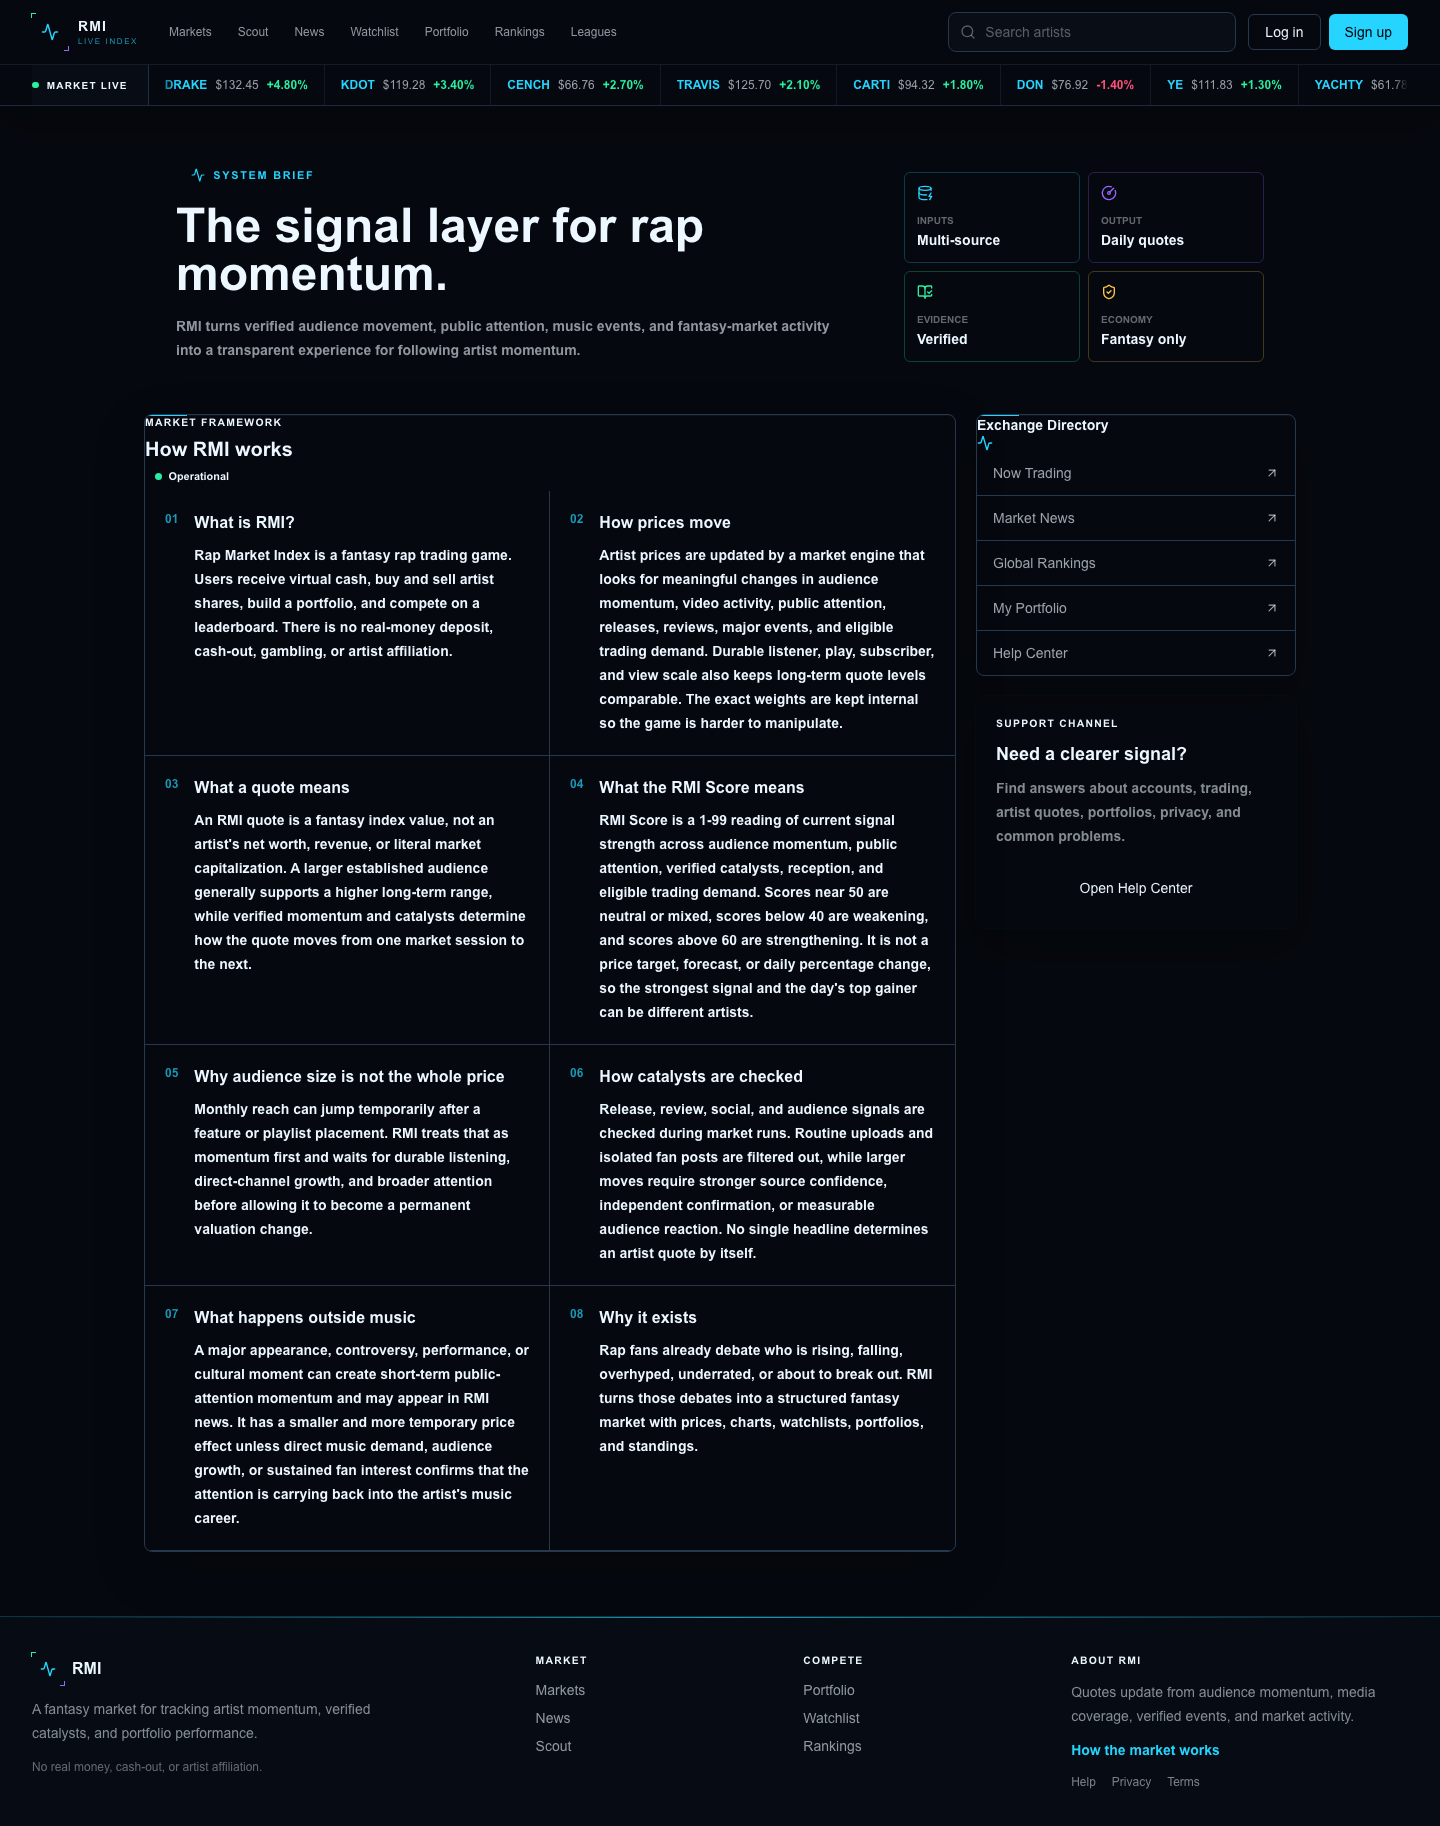
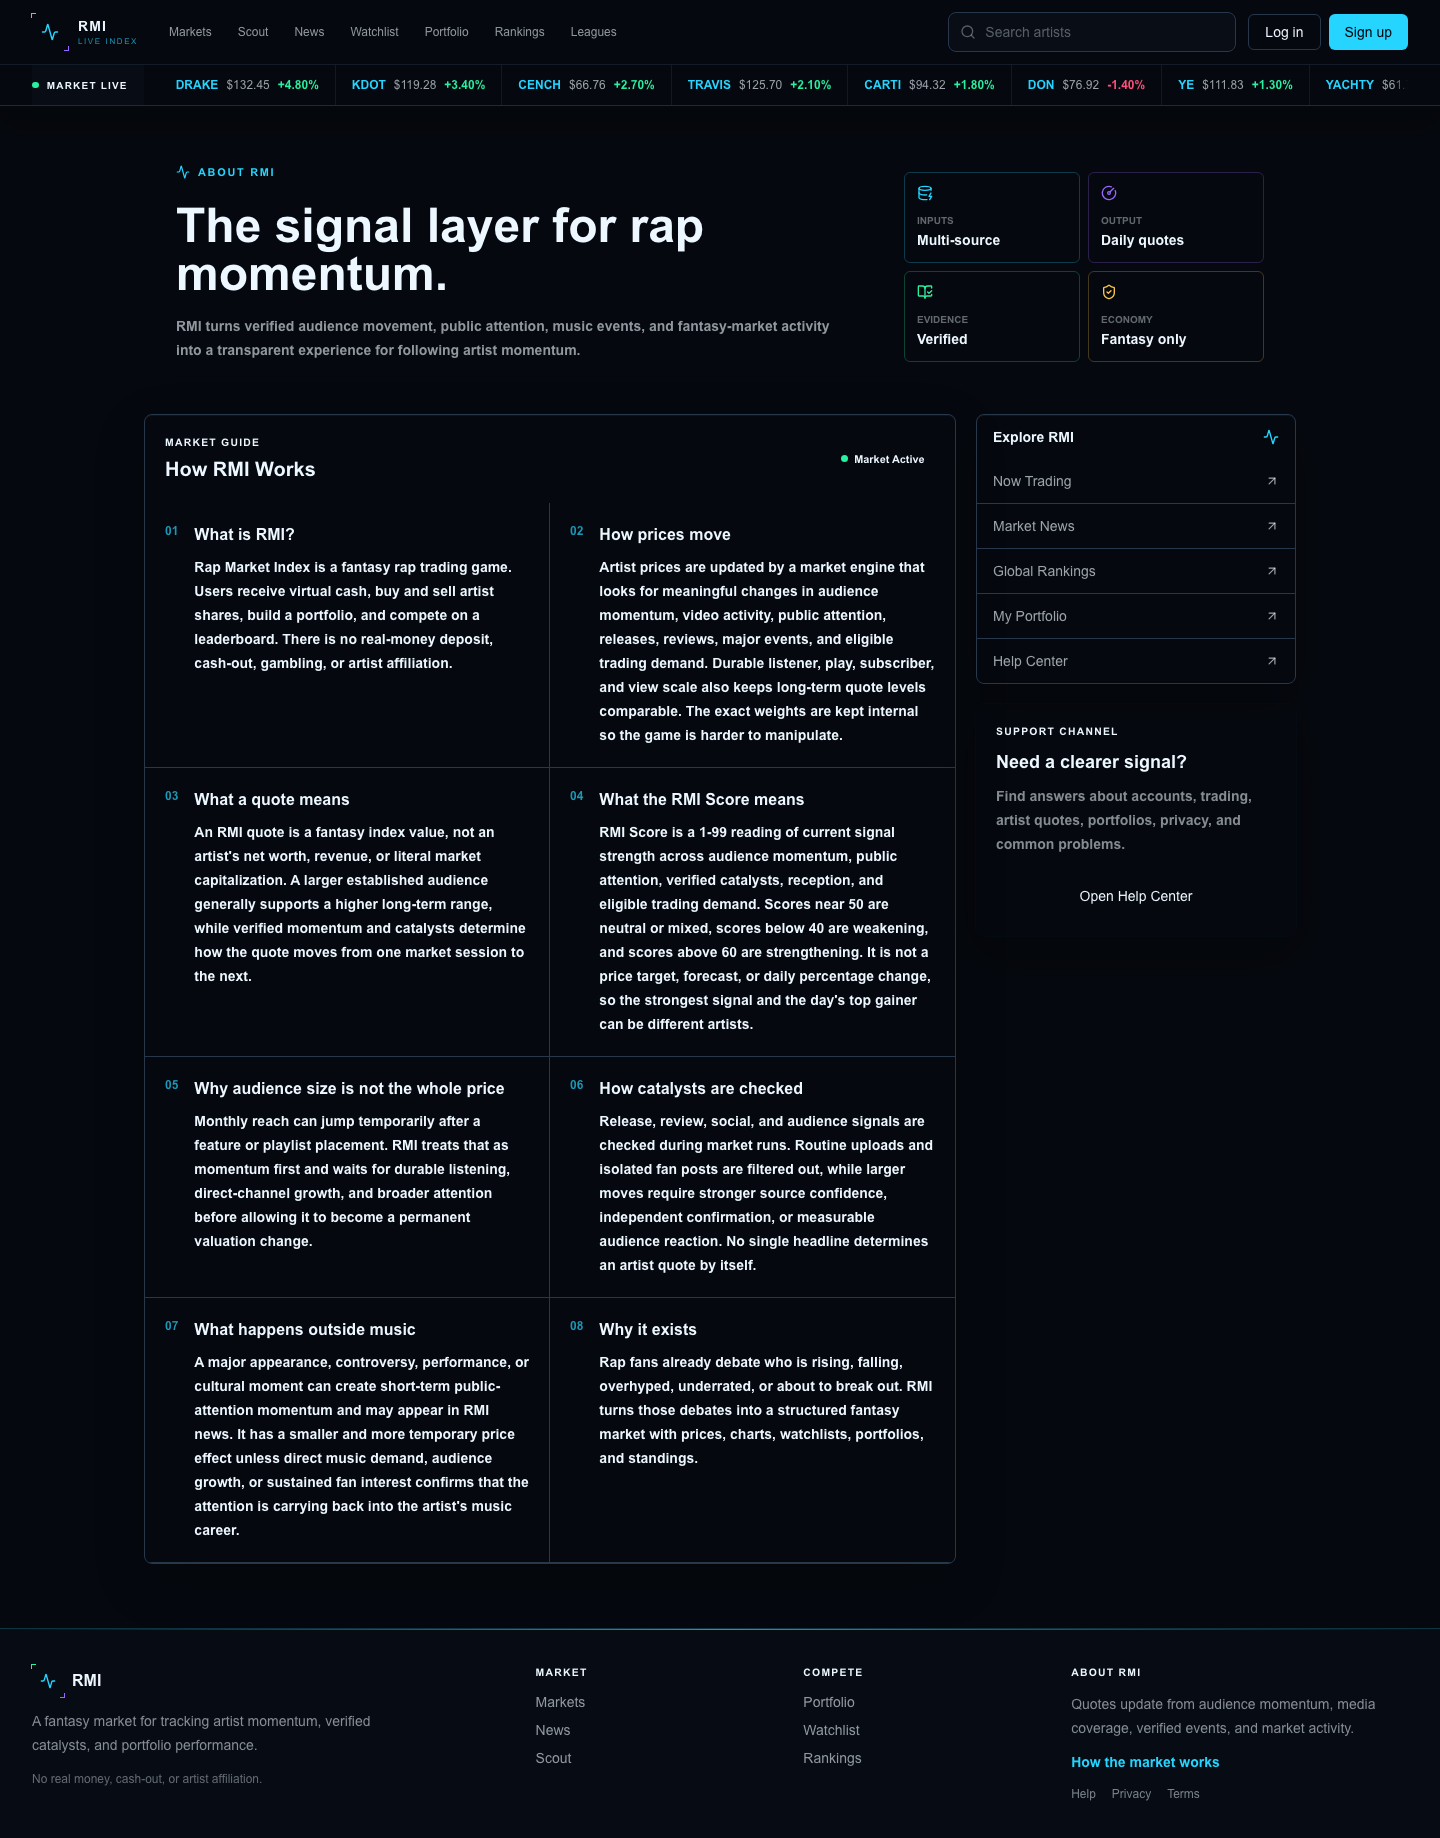
Fix overlay layout and page spacing

diff --git a/app/leagues/page.tsx b/app/leagues/page.tsx
@@ -1,11 +1,11 @@
 "use client";
 
 import { RmiButton } from "@/components/RmiPrimitives";
-import { Activity, ArrowUpRight, MessageCircle, ShieldCheck, Trophy, UsersRound } from "lucide-react";
+import { ArrowUpRight, MessageCircle, ShieldCheck, Trophy, UsersRound } from "lucide-react";
 
 const plannedFeatures = [
   { icon: UsersRound, title: "Private Leagues", detail: "Invite friends and compare portfolios in a private table." },
-  { icon: Trophy, title: "League Rankings", detail: "Compete on return without changing the public artist market." },
+  { icon: Trophy, title: "League Rankings", detail: "See who builds the strongest portfolio over time." },
   { icon: MessageCircle, title: "League Activity", detail: "Follow trades and league updates in one private feed." }
 ];
 
@@ -15,10 +15,10 @@ export default function LeaguesPage() {
       <section className="rmi-hero market-grid rmi-noise overflow-hidden">
         <div className="grid gap-6 p-6 sm:p-9 lg:grid-cols-[minmax(0,1fr)_340px] lg:items-center">
           <div>
-            <span className="rmi-status-chip border-violet/30 bg-violet/10 text-violet"><span className="h-1.5 w-1.5 rounded-full bg-violet" /> Network Preview</span>
-            <h1 className="mt-5 text-3xl font-black sm:text-5xl">Private markets. Shared competition.</h1>
+            <span className="inline-flex items-center gap-2 rounded-md border border-violet/45 bg-violet/15 px-4 py-2 text-xs font-black uppercase tracking-[0.16em] text-violet shadow-[0_0_24px_rgba(var(--color-violet),0.16)]"><span className="h-2 w-2 rounded-full bg-violet" /> Coming Soon</span>
+            <h1 className="mt-5 text-3xl font-black sm:text-5xl">Build a league. Trade against your friends.</h1>
             <p className="mt-4 max-w-xl text-sm font-semibold leading-6 text-paper/60">
-              Create private groups, compare returns, and compete with friends. Leagues are coming after the core market launch.
+              Create private groups, invite friends, and compete on portfolio returns.
             </p>
             <div className="mt-6 flex flex-wrap gap-3">
               <RmiButton href="/leaderboard">View Global Rankings <ArrowUpRight className="ml-2 h-4 w-4" /></RmiButton>
@@ -28,16 +28,16 @@ export default function LeaguesPage() {
           <div className="rmi-signal-card relative overflow-hidden p-5">
             <div className="absolute inset-x-0 top-0 h-px bg-gradient-to-r from-cyan via-violet to-mint" />
             <div className="flex items-center justify-between">
-              <span className="rmi-data-label">League Uplink</span>
-              <span className="rmi-live-dot" />
+              <span className="rmi-data-label">League Preview</span>
+              <span className="rmi-status-chip border-violet/30 bg-violet/10 text-violet">Coming Soon</span>
             </div>
             <div className="mt-8 grid place-items-center py-6">
               <ShieldCheck className="h-16 w-16 text-violet" strokeWidth={1.25} aria-hidden="true" />
             </div>
             <div className="grid grid-cols-3 gap-2 border-t border-line pt-4 text-center">
               <LeagueSignal value="Private" label="Access" />
-              <LeagueSignal value="Live" label="Standings" />
-              <LeagueSignal value="Fair" label="Market" />
+              <LeagueSignal value="Ranked" label="Standings" />
+              <LeagueSignal value="Social" label="Competition" />
             </div>
           </div>
         </div>
@@ -57,11 +57,12 @@ export default function LeaguesPage() {
       </section>
 
       <section className="rmi-card flex flex-wrap items-center justify-between gap-4 p-5">
-        <div className="flex items-center gap-3">
-          <span className="grid h-10 w-10 place-items-center rounded-md bg-mint/10 text-mint"><Activity className="h-5 w-5" aria-hidden="true" /></span>
-          <div><p className="text-sm font-black">The global market stays shared.</p><p className="mt-1 text-xs font-semibold text-paper/45">League competition will compare portfolios without creating separate artist prices.</p></div>
+        <div>
+          <p className="rmi-kicker text-violet">Coming Soon</p>
+          <p className="mt-2 text-sm font-black">Build your portfolio now.</p>
+          <p className="mt-1 text-xs font-semibold text-paper/45">Bring it into private competition with friends when leagues open.</p>
         </div>
-        <span className="rmi-status-chip border-mint/25 bg-mint/8 text-mint">Architecture Ready</span>
+        <RmiButton href="/portfolio" variant="secondary">Open Portfolio</RmiButton>
       </section>
     </div>
   );

diff --git a/src/components/Shell.tsx b/src/components/Shell.tsx
@@ -155,7 +155,7 @@ export function Shell({ children }: { children: React.ReactNode }) {
             </Link>
           ) : null}
 
-          <div ref={accountMenuRef} className="relative ml-auto lg:ml-0">
+          <div ref={accountMenuRef} className="relative ml-auto shrink-0 lg:ml-0">
             {authLoading ? (
               <div
                 className="h-10 w-24 rounded-lg bg-panelSoft motion-safe:animate-pulse"
@@ -191,7 +191,7 @@ export function Shell({ children }: { children: React.ReactNode }) {
 
             {accountOpen ? (
               <div
-                className="rmi-card absolute right-0 top-12 z-[120] max-h-[calc(100dvh-5.5rem)] w-[min(20rem,calc(100vw-2rem))] overflow-y-auto p-3 shadow-2xl scrollbar-thin"
+                className="rmi-card absolute right-0 top-[calc(100%+0.75rem)] z-[120] max-h-[calc(100dvh-5.5rem)] w-[min(20rem,calc(100vw-2rem))] overscroll-contain overflow-y-auto p-3 shadow-2xl scrollbar-thin"
                 role="menu"
               >
                 <div className="flex items-center gap-3 border-b border-line pb-3">
@@ -240,14 +240,16 @@ export function Shell({ children }: { children: React.ReactNode }) {
                   </Link>
                 </div>
 
-                <button
-                  type="button"
-                  onClick={handleSignOut}
-                  className="flex w-full items-center gap-3 border-t border-line px-3 pt-4 text-left text-sm font-black hover:text-ember"
-                >
-                  <LogOut className="h-4 w-4" aria-hidden="true" />
-                  Sign out
-                </button>
+                <div className="mt-2 border-t border-line pt-3">
+                  <button
+                    type="button"
+                    onClick={handleSignOut}
+                    className="flex w-full items-center gap-3 rounded-md px-3 py-2.5 text-left text-sm font-black hover:bg-ember/10 hover:text-ember"
+                  >
+                    <LogOut className="h-4 w-4" aria-hidden="true" />
+                    Sign out
+                  </button>
+                </div>
               </div>
             ) : null}
           </div>
@@ -330,12 +332,12 @@ function MarketTape({ artists }: { artists: Artist[] }) {
       <div className="mx-auto flex min-h-10 max-w-[1440px] px-4 sm:px-6 lg:px-8">
         <Link
           href="/markets"
-          className="z-10 flex shrink-0 items-center gap-2 border-r border-line/80 bg-panelSoft/95 pr-5 text-[10px] font-black uppercase tracking-[0.12em]"
+          className="z-10 flex shrink-0 items-center gap-2 bg-panelSoft/95 pr-4 text-[10px] font-black uppercase tracking-[0.12em]"
         >
           <span className="rmi-live-dot" aria-hidden="true" />
           Market Live
         </Link>
-        <div className="market-tape-viewport min-w-0 flex-1 overflow-hidden">
+        <div className="market-tape-viewport min-w-0 flex-1 overflow-hidden pl-3 sm:pl-4">
           <div className="market-tape-track flex h-full w-max items-center">
             <MarketTapeGroup artists={artists} />
             <MarketTapeGroup artists={artists} duplicate />

diff --git a/e2e/public-pages.spec.ts b/e2e/public-pages.spec.ts
@@ -194,6 +194,24 @@ test("homepage visual contract", async ({ page }) => {
   await assertStablePublicPage(page, "/", "Spot the next rise.", "homepage.png");
 });
 
+test("homepage artist search opens as an overlay without resizing the hero", async ({ page }) => {
+  await page.goto("/");
+  await expect(page.locator('[aria-busy="true"]')).toHaveCount(0, { timeout: 15_000 });
+
+  const hero = page.getByTestId("home-market-hero");
+  const search = page.getByPlaceholder("Search an artist, e.g. Ken Carson");
+  const before = await hero.boundingBox();
+
+  await search.focus();
+  await expect(page.getByTestId("home-search-results")).toBeVisible();
+  const after = await hero.boundingBox();
+
+  expect(before).not.toBeNull();
+  expect(after).not.toBeNull();
+  expect(Math.abs((after?.height ?? 0) - (before?.height ?? 0))).toBeLessThanOrEqual(2);
+  await expect(page.getByTestId("home-search-results")).toHaveCSS("position", "absolute");
+});
+
 test("markets visual contract", async ({ page }) => {
   await assertStablePublicPage(page, "/markets", "Artist Markets", "markets.png");
 });

diff --git a/app/users/[id]/page.tsx b/app/users/[id]/page.tsx
@@ -4,7 +4,7 @@ import { AdminBadge } from "@/components/AdminBadge";
 import { UserAvatar } from "@/components/UserAvatar";
 import { formatCurrency, formatPercent } from "@/lib/formatters";
 import clsx from "clsx";
-import { Activity, BarChart3, CalendarDays, CircleGauge, LockKeyhole, Radio, Star, Trophy, WalletCards } from "lucide-react";
+import { Activity, BarChart3, CalendarDays, LockKeyhole, Radio, Star, Trophy, WalletCards } from "lucide-react";
 import Link from "next/link";
 import { useParams } from "next/navigation";
 import { useEffect, useState } from "react";
@@ -115,13 +115,13 @@ export default function PublicUserProfilePage() {
   return (
     <div className="mx-auto max-w-6xl space-y-5">
       <section className="rmi-hero market-grid rmi-noise relative overflow-hidden p-5 shadow-market sm:p-7">
-        <div className="relative z-10 grid gap-6 md:grid-cols-[130px_minmax(0,1fr)_230px] md:items-center">
+        <div className="relative z-10 grid gap-6 lg:grid-cols-[130px_minmax(0,1fr)_230px] lg:items-center">
           <div className="relative w-fit">
             <span className="absolute -inset-3 rounded-full border border-cyan/20" aria-hidden="true" />
             <UserAvatar avatarUrl={profile.avatarUrl} label={profile.username} size="lg" />
           </div>
           <div className="min-w-0">
-            <p className="rmi-kicker"><Radio className="h-4 w-4" aria-hidden="true" /> Public Trader Node</p>
+            <p className="rmi-kicker"><Radio className="h-4 w-4" aria-hidden="true" /> Public Profile</p>
             <div className="flex min-w-0 flex-wrap items-center gap-2">
               <h1 className="mt-2 truncate text-3xl font-black sm:text-4xl">{profile.username}</h1>
               {profile.isAdmin ? <AdminBadge /> : null}
@@ -145,7 +145,7 @@ export default function PublicUserProfilePage() {
       </section>
 
       <section className="rmi-card market-grid shadow-market">
-        <div className="rmi-section-header">
+        <div className="rmi-section-header flex flex-col gap-3 p-5 sm:flex-row sm:items-center sm:justify-between">
           <div>
             <p className="rmi-kicker text-cyan"><BarChart3 className="h-4 w-4" aria-hidden="true" /> Public Portfolio</p>
             <h2 className="mt-1 text-xl font-black">Open Positions</h2>
@@ -204,17 +204,16 @@ export default function PublicUserProfilePage() {
       </section>
 
       <section className="rmi-card market-grid shadow-market">
-        <div className="rmi-section-header">
+        <div className="rmi-section-header flex items-center justify-between gap-3 p-5">
           <div>
-            <p className="rmi-kicker text-violet"><Star className="h-4 w-4" aria-hidden="true" /> Identity Signals</p>
+            <p className="rmi-kicker text-violet"><Star className="h-4 w-4" aria-hidden="true" /> Artist Favorites</p>
             <h2 className="mt-1 text-xl font-black">Favorite Artists</h2>
           </div>
-          <CircleGauge className="h-5 w-5 text-violet" aria-hidden="true" />
         </div>
-        <div className="grid divide-y divide-line sm:grid-cols-2 lg:grid-cols-3">
+        <div className="grid gap-3 p-3 sm:grid-cols-2 lg:grid-cols-3">
           {profile.favoriteArtists.length ? (
             profile.favoriteArtists.map((artist) => (
-              <Link key={artist.id} href={`/artists/${artist.id}`} className="rmi-signal-card rmi-signal-violet m-2 flex items-center gap-3 p-4">
+              <Link key={artist.id} href={`/artists/${artist.id}`} className="rmi-signal-card rmi-signal-violet flex items-center gap-3 p-4">
                 <span className="flex items-center gap-3">
                   <ProfileArtistImage
                     name={artist.name}

diff --git a/app/account/page.tsx b/app/account/page.tsx
@@ -575,11 +575,17 @@ function AccountPageContent() {
           <h2 className="mb-3 text-lg font-black">Account Controls</h2>
           <div className="rmi-card border-t-2 border-t-cyan/70 p-4">
             <p className="mb-4 text-sm text-paper/55">Security, privacy, and account preferences live in the settings console.</p>
-            <RmiButton href="/settings" variant="secondary">Open Settings</RmiButton>
-            <button type="button" onClick={signOut} className="flex items-center gap-2 text-sm font-black text-ember">
-              <LogOut className="h-4 w-4" />
-              Sign out
-            </button>
+            <div className="flex flex-wrap items-center gap-3">
+              <RmiButton href="/settings" variant="secondary">Open Settings</RmiButton>
+              <button
+                type="button"
+                onClick={signOut}
+                className="rmi-button-secondary inline-flex min-h-10 items-center gap-2 rounded-md border border-ember/40 px-4 text-sm font-black text-ember hover:bg-ember/10"
+              >
+                <LogOut className="h-4 w-4" />
+                Sign out
+              </button>
+            </div>
           </div>
         </div>
       </section>

diff --git a/app/about/page.tsx b/app/about/page.tsx
@@ -42,7 +42,7 @@ export default function AboutPage() {
       <header className="rmi-page-head market-grid rmi-noise relative overflow-hidden p-5 sm:p-8">
         <div className="relative z-10 grid gap-7 lg:grid-cols-[minmax(0,1fr)_360px] lg:items-end">
           <div>
-            <div className="rmi-kicker"><Activity className="h-3.5 w-3.5" aria-hidden="true" /> System Brief</div>
+            <div className="rmi-kicker"><Activity className="h-3.5 w-3.5" aria-hidden="true" /> About RMI</div>
             <h1 className="mt-4 max-w-3xl text-3xl font-black leading-tight sm:text-5xl">The signal layer for rap momentum.</h1>
             <p className="mt-4 max-w-2xl text-sm font-semibold leading-6 text-paper/60">
               RMI turns verified audience movement, public attention, music events, and fantasy-market activity into a transparent experience for following artist momentum.
@@ -59,12 +59,12 @@ export default function AboutPage() {
 
       <div className="grid gap-5 lg:grid-cols-[minmax(0,1fr)_320px]">
         <main className="rmi-card overflow-hidden shadow-market">
-          <section className="rmi-section-header">
+          <section className="rmi-section-header flex flex-col gap-3 p-5 sm:flex-row sm:items-center sm:justify-between">
             <div>
-              <p className="rmi-data-label text-cyan">Market Framework</p>
-              <h2 className="mt-1 text-xl font-black">How RMI works</h2>
+              <p className="rmi-data-label text-cyan">Market Guide</p>
+              <h2 className="mt-1 text-xl font-black">How RMI Works</h2>
             </div>
-            <span className="rmi-status-chip border-mint/30 bg-mint/8 text-mint"><span className="rmi-live-dot" /> Operational</span>
+            <span className="rmi-status-chip border-mint/30 bg-mint/8 text-mint"><span className="rmi-live-dot" /> Market Active</span>
           </section>
 
           <div className="grid md:grid-cols-2">
@@ -84,8 +84,8 @@ export default function AboutPage() {
 
         <aside className="space-y-5 lg:sticky lg:top-24 lg:self-start">
           <section className="rmi-card overflow-hidden shadow-market">
-            <div className="rmi-section-header">
-              <h2 className="text-sm font-black">Exchange Directory</h2>
+            <div className="rmi-section-header flex items-center justify-between gap-3 px-4 py-3">
+              <h2 className="text-sm font-black">Explore RMI</h2>
               <Activity className="h-4 w-4 text-cyan" aria-hidden="true" />
             </div>
             <div className="divide-y divide-line">

diff --git a/src/components/PolicyDocument.tsx b/src/components/PolicyDocument.tsx
@@ -60,7 +60,11 @@ export function PolicyDocument({
 
         <main className="rmi-card market-grid min-w-0 overflow-hidden px-5 sm:px-7">
           {sections.map((section, index) => (
-            <section key={section.id} id={section.id} className="scroll-mt-32 border-b border-line py-7 last:border-b-0">
+            <section
+              key={section.id}
+              id={section.id}
+              className={`scroll-mt-32 py-7 ${index < sections.length - 1 ? "border-b border-line" : ""}`}
+            >
               <div className="flex items-center gap-3">
                 <span className="grid h-8 w-8 shrink-0 place-items-center rounded-md border border-violet/35 bg-violet/10 text-xs font-black text-violet">
                   {String(index + 1).padStart(2, "0")}
@@ -70,7 +74,7 @@ export function PolicyDocument({
               <div className="mt-3 text-sm leading-7 text-paper/65">{section.body}</div>
             </section>
           ))}
-          <Link href={link.href} className="rmi-button-secondary mb-7 inline-flex min-h-10 items-center rounded-md border border-line px-4 text-sm font-black">
+          <Link href={link.href} className="rmi-button-secondary mb-7 mt-1 inline-flex min-h-10 items-center rounded-md border border-line px-4 text-sm font-black">
             {link.label}
           </Link>
         </main>

diff --git a/app/watchlist/page.tsx b/app/watchlist/page.tsx
@@ -65,7 +65,11 @@ export default function WatchlistPage() {
       </header>
 
       {addOpen ? (
-        <section id="watchlist-artist-picker" className="rmi-card p-4 sm:p-5" aria-label="Add artists to watchlist">
+        <section
+          id="watchlist-artist-picker"
+          className="rmi-card relative z-10 w-full scroll-mt-28 overflow-visible p-4 sm:p-5"
+          aria-label="Add artists to watchlist"
+        >
           <div className="flex flex-wrap items-start justify-between gap-3">
             <div>
               <h2 className="text-base font-black">Add to watchlist</h2>

diff --git a/app/globals.css b/app/globals.css
@@ -133,7 +133,6 @@ button {
 }
 
 .rmi-card {
-  position: relative;
   border: 1px solid rgb(var(--color-line));
   background:
     linear-gradient(145deg, rgba(var(--color-cyan), 0.035), transparent 34%),
@@ -142,6 +141,10 @@ button {
   box-shadow:
     inset 0 1px 0 rgba(255, 255, 255, 0.045),
     0 18px 52px rgba(0, 0, 0, 0.18);
+}
+
+.rmi-card:not(.absolute) {
+  position: relative;
 }
 
 .rmi-soft-card {

diff --git a/app/page.tsx b/app/page.tsx
@@ -98,7 +98,7 @@ export default function HomePage() {
 
   return (
     <div className="space-y-6">
-      <section className="rmi-card rmi-hero relative z-40 grid min-w-0 overflow-visible lg:grid-cols-[minmax(0,1.45fr)_minmax(300px,0.55fr)]">
+      <section data-testid="home-market-hero" className="rmi-card rmi-hero relative z-40 grid min-w-0 overflow-visible lg:grid-cols-[minmax(0,1.45fr)_minmax(300px,0.55fr)]">
         <div className="rmi-noise grid min-w-0 content-center px-5 py-9 text-center sm:px-8 lg:min-h-[260px] lg:text-left">
           <div className="relative z-10">
           <p className="rmi-kicker">RMI Market Intelligence</p>
@@ -121,7 +121,7 @@ export default function HomePage() {
             />
             <RmiButton type="submit">Search</RmiButton>
             {searchFocused ? (
-              <div className="rmi-card absolute left-0 right-0 top-[100px] z-[100] max-h-72 overflow-y-auto p-2 text-left shadow-2xl scrollbar-thin sm:right-20 sm:top-12">
+              <div data-testid="home-search-results" className="rmi-card absolute left-0 right-0 top-[calc(100%+0.5rem)] z-[100] max-h-72 overscroll-contain overflow-y-auto p-2 text-left shadow-2xl scrollbar-thin sm:right-[5.75rem]">
                 {searchSuggestions.map((artist) => (
                   <Link
                     key={artist.id}

diff --git a/src/components/ArtistPriceHistoryPanel.tsx b/src/components/ArtistPriceHistoryPanel.tsx
@@ -92,8 +92,8 @@ export function ArtistPriceHistoryPanel({
 
   return (
     <section className="rmi-card overflow-hidden shadow-market">
-      <div className="rmi-section-header flex flex-col gap-3 px-4 py-4 sm:flex-row sm:items-center sm:justify-between sm:px-5">
-        <div className="min-w-0 text-left">
+      <div className="rmi-section-header !flex flex-col !items-stretch !justify-between gap-3 px-4 py-4 text-left sm:!flex-row sm:!items-center sm:px-5">
+        <div className="min-w-0 text-left sm:mr-auto">
           <div className="flex flex-wrap items-center gap-2">
             <Activity className="h-4 w-4 text-cyan" aria-hidden="true" />
             <h2 className="text-lg font-black">Price History</h2>

diff --git a/src/components/ScoreInfo.tsx b/src/components/ScoreInfo.tsx
@@ -6,7 +6,7 @@ import { Info } from "lucide-react";
 
 export function ScoreInfo({ className }: { className?: string }) {
   return (
-    <span className={clsx("group relative inline-flex align-middle", className)}>
+    <span className={clsx("group relative z-30 inline-flex align-middle", className)}>
       <button
         type="button"
         className="inline-flex h-4 w-4 items-center justify-center rounded-full border border-line bg-panel text-paper/45 hover:border-cyan hover:text-cyan focus:outline-none focus:ring-2 focus:ring-cyan/30"
@@ -16,7 +16,7 @@ export function ScoreInfo({ className }: { className?: string }) {
       </button>
       <span
         role="tooltip"
-        className="pointer-events-none absolute right-0 top-6 z-[120] hidden w-[min(18rem,calc(100vw-2rem))] rounded-lg border border-line bg-panel p-3 text-left text-xs font-bold normal-case leading-5 text-paper shadow-2xl group-focus-within:block group-hover:block"
+        className="pointer-events-none absolute left-0 right-auto top-6 z-[140] hidden w-[min(18rem,calc(100vw-2rem))] rounded-lg border border-line bg-panel p-3 text-left text-xs font-bold normal-case leading-5 text-paper shadow-2xl group-focus-within:block group-hover:block sm:left-auto sm:right-0"
       >
         {MARKET_SCORE_EXPLANATION}
       </span>